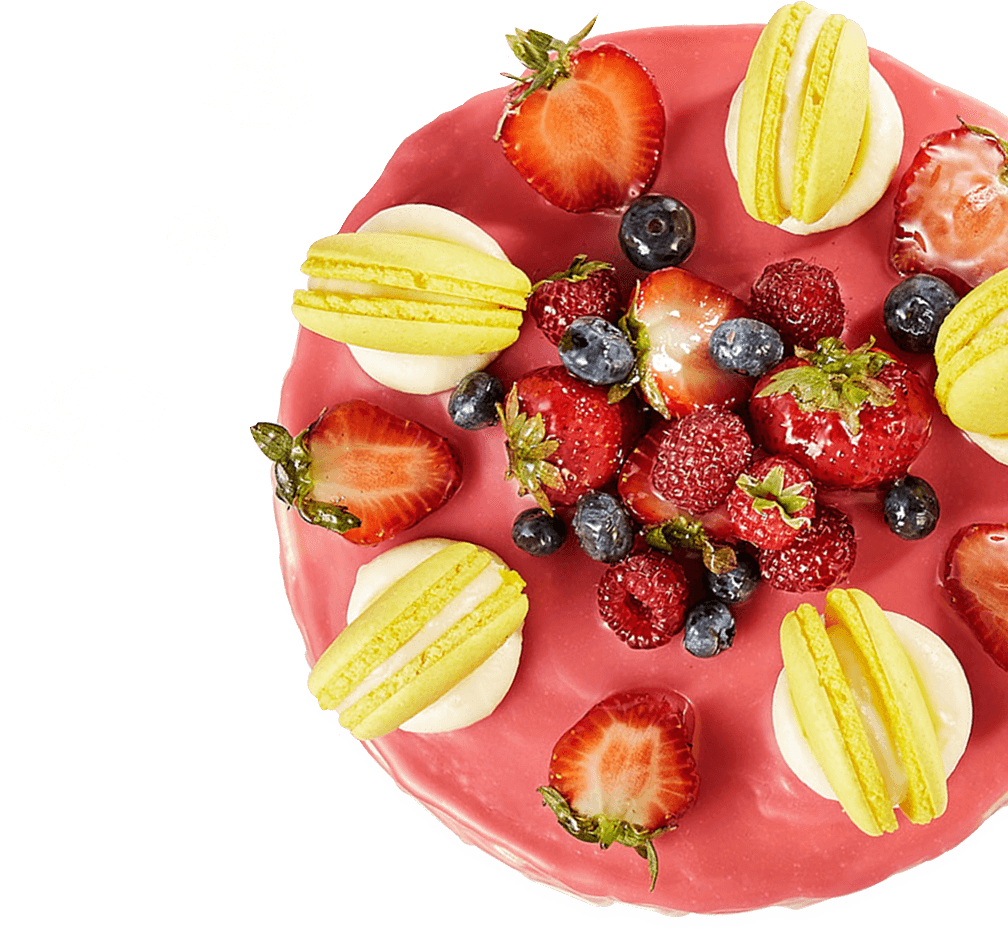
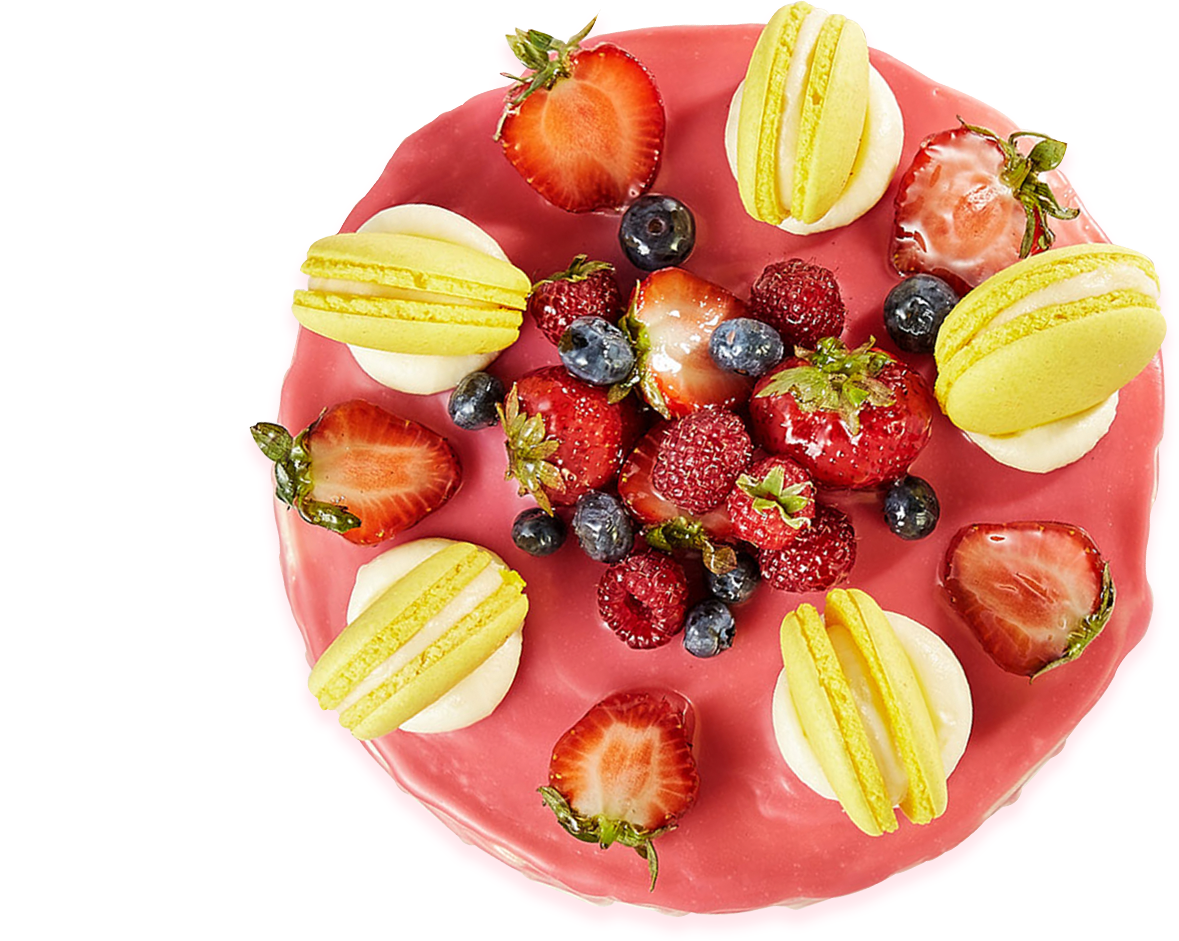
Корректирует сборку, обновляет фоновые изображения

diff --git a/cake/index.html b/cake/index.html
@@ -1,0 +1,1 @@
+<!DOCTYPE html><html lang="ru"><head><meta charset="UTF-8"><meta name="viewport" content="width=device-width,initial-scale=1"><meta http-equiv="X-UA-Compatible" content="ie=edge"><link rel="stylesheet" href="css/style.min.css"><link rel="preload" href="fonts/circe-bold.woff" as="font" crossorigin="anonymous"><link rel="preload" href="fonts/circe-regular.woff" as="font" crossorigin="anonymous"><link rel="preload" href="fonts/IntroScriptR-H2Base.otf" as="font" crossorigin="anonymous"><link rel="preload" href="fonts/opensans-light.woff2" as="font" crossorigin="anonymous"><link rel="preload" href="fonts/opensans-light.woff" as="font" crossorigin="anonymous"><link rel="preload" href="fonts/PlayfairDisplay-Bold.ttf" as="font" crossorigin="anonymous"><link rel="preload" href="fonts/PlayfairDisplay-BoldItalic.ttf" as="font" crossorigin="anonymous"><link rel="preload" href="fonts/roboto-regular.woff2" as="font" crossorigin="anonymous"><link rel="preload" href="fonts/roboto-regular.woff" as="font" crossorigin="anonymous"><script src="js/picturefill.min.js"></script><title>Торты на заказ</title></head><body><!-- HEADER --><header class="header"><div class="header__container container"><div class="header__inner"><span class="header__logo">Cakes</span> <button class="header__button"></button></div><nav class="header__navigation"><ul class="header__menu-list main-menu"><li class="main-menu__item"><a class="main-menu__link" href="#">Наши торты</a></li><li class="main-menu__item"><a class="main-menu__link main-menu__link--active" href="#">Индивидуальный заказ</a></li><li class="main-menu__item"><a class="main-menu__link" href="#">Отзывы</a></li><li class="main-menu__item"><a class="main-menu__link" href="#">О нас</a></li><li class="main-menu__item"><a class="main-menu__link" href="#">Как заказать</a></li><li class="main-menu__item"><a class="main-menu__link" href="#">Контакты</a></li></ul></nav><span class="header__tel tel">+7 906 899 92 96</span></div></header><!-- MAIN --><main class="main"><h1 class="visuallyhidden">Cakes - Торты на заказ!</h1><!-- SHOP-WINDOW --><section class="shop-window"><div class="shop-window__container container"><h2 class="shop-window__title">Торты на&nbsp;заказ</h2><p class="shop-window__slogan">Ручная работа</p><ul class="shop-window__features features"><li class="features__item features__item--naturally"><p class="features__description">Натуральные ингредиенты</p></li><li class="features__item features__item--delivery"><p class="features__description">Доставка бесплатно при&nbsp;заказе от&nbsp;2000&nbsp;рублей*</p></li></ul><a class="shop-window__button button" href="#">Выбрать торт</a><picture><source type="image/webp" media="(min-width: 1366px)" srcset="img/main-cake-d.webp, img/main-cake-d@2x.webp 2x"><source type="image/webp" media="(min-width: 768px)" srcset="img/main-cake-t.webp, img/main-cake-t@2x.webp 2x"><source type="image/webp" srcset="img/main-cake-mobile.webp, img/main-cake-mobile@2x.webp 2x"><source media="(min-width: 1366px)" srcset="img/main-cake-d.png, img/main-cake-d@2x.png 2x"><source media="(min-width: 768px)" srcset="img/main-cake-t.png, img/main-cake-t@2x.png 2x"><img class="shop-window__image" src="img/main-cake-mobile.png" srcset="img/main-cake-mobile@2x.png 2x" alt="Очень вкусный торт"></picture></div></section><!-- PRODUCTION --><section class="production"><div class="container"><h2 class="production__title">Наши торты</h2><div class="production__inner"><ul class="production__list"><li class="production__item production__item--big"><article class="production__grade product-grade"><h3 class="product-grade__title">Классические</h3><span class="product-grade__amount">24 вида</span> <a href="#"><picture><source type="image/webp" media="(min-width: 1366px)" srcset="img/classic-d.webp, img/classic-d@2x.jpg 2x"><source type="image/webp" media="(min-width: 768px)" srcset="img/classic-t.webp, img/classic-t@2x.jpg 2x"><source type="image/webp" srcset="img/classic-mobile.webp, img/classic-mobile@2x.webp 2x"><source media="(min-width: 1366px)" srcset="img/classic-d.jpg, img/classic-d@2x.jpg 2x"><source media="(min-width: 768px)" srcset="img/classic-t.jpg, img/classic-t@2x.jpg 2x"><img class="product-grade__img product-grade__img--classic" src="img/classic-mobile.jpg" srcset="img/classic-mobile@2x.jpg 2x" alt="Классический торт"></picture></a><a class="product-grade__link product-grade__link--visible" href="#">Смотреть</a></article></li><li class="production__item production__item--bot-indent"><article class="production__grade product-grade"><h3 class="product-grade__title">Муссовые</h3><span class="product-grade__amount">12 видов</span> <a href="#"><picture><source type="image/webp" media="(min-width: 1366px)" srcset="img/mousse-d.webp, img/mousse-d@2x.jpg 2x"><source type="image/webp" media="(min-width: 768px)" srcset="img/mousse-t.webp, img/mousse-t@2x.jpg 2x"><source type="image/webp" srcset="img/mousse-mobile.webp, img/mousse-mobile@2x.webp 2x"><source media="(min-width: 1366px)" srcset="img/mousse-d.jpg, img/mousse-d@2x.jpg 2x"><source media="(min-width: 768px)" srcset="img/mousse-t.jpg, img/mousse-t@2x.jpg 2x"><img class="product-grade__img product-grade__img--mousse" src="img/mousse-mobile.jpg" srcset="img/mousse-mobile@2x.jpg 2x" alt="Классический торт"></picture></a><a class="product-grade__link" href="#">Смотреть</a></article></li><li class="production__item"><article class="production__grade product-grade"><h3 class="product-grade__title">Свадебные</h3><span class="product-grade__amount">20 видов</span> <a href="#"><picture><source type="image/webp" media="(min-width: 1366px)" srcset="img/wedding-d.webp, img/wedding-d@2x.webp 2x"><source type="image/webp" media="(min-width: 768px)" srcset="img/wedding-t.webp, img/wedding-t@2x.webp 2x"><source type="image/webp" srcset="img/wedding-mobile.webp, img/wedding-mobile@2x.webp 2x"><source media="(min-width: 1366px)" srcset="img/wedding-d.jpg, img/wedding-d@2x.jpg 2x"><source media="(min-width: 768px)" srcset="img/wedding-t.jpg, img/wedding-t@2x.jpg 2x"><img class="product-grade__img product-grade__img--wedding" src="img/wedding-mobile.jpg" srcset="img/wedding-mobile@2x.jpg 2x" alt="Свадебный торт"></picture></a><a class="product-grade__link" href="#">Смотреть</a></article></li></ul></div><div class="production__inner"><ul class="production__list"><li class="production__item production__item--bot-indent"><article class="production__grade product-grade"><h3 class="product-grade__title">Мужчинам</h3><span class="product-grade__amount">12 видов</span> <a href="#"><picture><source type="image/webp" media="(min-width: 1366px)" srcset="img/mans-d.webp, img/mans-d@2x.webp 2x"><source type="image/webp" media="(min-width: 768px)" srcset="img/mans-t.webp, img/mans-t@2x.webp 2x"><source type="image/webp" srcset="img/mans-mobile.webp, img/mans-mobile@2x.webp 2x"><source media="(min-width: 1366px)" srcset="img/mans-d.jpg, img/mans-d@2x.jpg 2x"><source media="(min-width: 768px)" srcset="img/mans-t.jpg, img/mans-t@2x.jpg 2x"><img class="product-grade__img product-grade__img--mans" src="img/mans-mobile.jpg" srcset="img/mans-mobile@2x.jpg 2x" alt="Свадебный торт"></picture></a><a class="product-grade__link" href="#">Смотреть</a></article></li><li class="production__item"><article class="production__grade product-grade"><h3 class="product-grade__title">Женщинам</h3><span class="product-grade__amount">16 видов</span> <a href="#"><picture><source type="image/webp" media="(min-width: 1366px)" srcset="img/womans-d.webp, img/womans-d@2x.webp 2x"><source type="image/webp" media="(min-width: 768px)" srcset="img/womans-t.webp, img/womans-t@2x.webp 2x"><source type="image/webp" srcset="img/womans-mobile.webp, img/womans-mobile@2x.webp 2x"><source media="(min-width: 1366px)" srcset="img/womans-d.jpg, img/womans-d@2x.jpg 2x"><source media="(min-width: 768px)" srcset="img/womans-t.jpg, img/womans-t@2x.jpg 2x"><img class="product-grade__img product-grade__img--womans" src="img/womans-mobile.jpg" srcset="img/womans-mobile@2x.jpg 2x" alt="Свадебный торт"></picture></a><a class="product-grade__link" href="#">Смотреть</a></article></li><li class="production__item production__item--big"><article class="production__grade product-grade"><h3 class="product-grade__title">Детские</h3><span class="product-grade__amount">18 видов</span> <a href="#"><picture><source type="image/webp" media="(min-width: 1366px)" srcset="img/cids-d.webp, img/cids-d@2x.webp 2x"><source type="image/webp" media="(min-width: 768px)" srcset="img/cids-t.webp, img/cids-t@2x.webp 2x"><source type="image/webp" srcset="img/cids-mobile.webp, img/cids-mobile@2x.webp 2x"><source media="(min-width: 1366px)" srcset="img/cids-d.jpg, img/cids-d@2x.jpg 2x"><source media="(min-width: 768px)" srcset="img/cids-t.jpg, img/cids-t@2x.jpg 2x"><img class="product-grade__img product-grade__img--cids" src="img/cids-mobile.jpg" srcset="img/cids-mobile@2x.jpg 2x" alt="Свадебный торт"></picture></a><a class="product-grade__link" href="#">Смотреть</a></article></li></ul></div></div></section><!-- DESIGNER --><section class="designer"><div class="container"><h2 class="designer__title">Индивидуальный заказ</h2><p class="designer__description">Соберите торт в 3 шага</p><!-- FILLING --><div class="designer__filling filling"><h3 class="filling__caption">Выберите начинку</h3><button class="filling__control control filling__control--left" type="button">Назад</button><picture><source type="image/webp" media="(min-width: 1366px)" srcset="img/filling-d.webp, img/filling-d@2x.webp 2x"><source type="image/webp" media="(min-width: 768px)" srcset="img/filling-t.webp, img/filling-t@2x.webp 2x"><source type="image/webp" srcset="img/filling-mobile.webp, img/filling-mobile@2x.webp 2x"><source media="(min-width: 1366px)" srcset="img/filling-d.png, img/filling-d@2x.png 2x"><source media="(min-width: 768px)" srcset="img/filling-t.png, img/filling-t@2x.png 2x"><img class="filling__img" src="img/filling-mobile.png" srcset="img/filling-mobile@2x.png 2x" alt="Шоколадная начинка"></picture><!-- pagination --><ul class="filling__pagination pagination"><li class="pagination__item pagination__item--active"><a href="" class="pagination__link pagination__link"></a></li><li class="pagination__item"><a href="" class="pagination__link"></a></li><li class="pagination__item"><a href="" class="pagination__link"></a></li><li class="pagination__item"><a href="" class="pagination__link"></a></li><li class="pagination__item pagination__item--last"><a href="" class="pagination__link pagination__link"></a></li></ul><p class="filling__name">Шоколадный ганаш</p><p class="filling__description">Ароматный шоколадный бисквит, густой шоколадный крем – самый шоколадный из всех возможных десертов!</p><span class="filling__price">1000 руб/кг</span> <a class="filling__button button" href="#">Выбрать</a> <button class="filling__control control filling__control--right" type="button">Вперед</button> <span class="filling__counter">1/12</span></div><!-- SIZE --><div class="designer__size size"><h3 class="size__caption">Размер</h3><div class="size__wrap"><ul class="size__list"><li class="size__item size__item--first"><p class="size__weight"><a class="size__link" href="#">1&nbsp;кг</a></p><span class="size__radius">17-18&nbsp;см</span> <span class="size__amount">(1 кг – 6 персон)</span></li><li class="size__item size__item--second"><p class="size__weight"><a class="size__link" href="#">2&nbsp;кг</a></p><span class="size__radius">23-24&nbsp;см</span> <span class="size__amount">(10–12 персон)</span></li><li class="size__item size__item--third"><p class="size__weight"><a class="size__link" href="#">5&nbsp;кг</a></p><span class="size__radius">Два яруса 25 и 20 см</span> <span class="size__amount">(15–20 персон)</span></li><li class="size__item size__item--fourth"><p class="size__weight"><a class="size__link" href="#">8&nbsp;кг</a></p><span class="size__radius">Три яруса 30,25 и 18 см</span> <span class="size__amount">(25–30 персон)</span></li></ul><!-- pagination --><ul class="size__pagination pagination"><li class="pagination__item pagination__item--active"><a href="" class="pagination__link pagination__link"></a></li><li class="pagination__item"><a href="" class="pagination__link"></a></li><li class="pagination__item"><a href="" class="pagination__link"></a></li><li class="pagination__item"><a href="" class="pagination__link"></a></li></ul><a class="size__button button" href="#">Выбрать</a></div></div><!-- DECORATION --><div class="designer__decoration decoration"><h3 class="decoration__caption">Оформление</h3><div class="decoration__wrap"><button class="decoration__control control decoration__control--left" type="button">Назад</button><ul class="decoration__list"><li class="decoration__item"><div class="decoration__inner"><a class="decoration__link" href="#"><picture><source type="image/webp" media="(min-width: 1366px)" srcset="img/marshmallow-d.webp, img/marshmallow-d@2x.webp 2x"><source type="image/webp" media="(min-width: 768px)" srcset="img/marshmallow-t.webp, img/marshmallow-t@2x.webp 2x"><source type="image/webp" srcset="img/marshmallow-mobile.webp, img/marshmallow-mobile@2x.webp 2x"><source media="(min-width: 1366px)" srcset="img/marshmallow-d.png, img/marshmallow-d@2x.png 2x"><source media="(min-width: 768px)" srcset="img/marshmallow-t.png, img/marshmallow-t@2x.png 2x"><img class="decoration__image" src="img/marshmallow-mobile.jpg" srcset="img/marshmallow-mobile@2x.jpg 2x" alt="Маршмэллоу"></picture></a></div><span class="decoration__name">Маршмэллоу</span> <span class="decoration__price">600 руб/кг</span></li><li class="decoration__item"><div class="decoration__inner"><a class="decoration__link" href="#"><picture><source type="image/webp" media="(min-width: 1366px)" srcset="img/berries-d.webp, img/berries-d@2x.webp 2x"><source type="image/webp" srcset="img/berries-t.webp, img/berries-t@2x.webp 2x"><source media="(min-width: 1366px)" srcset="img/berries-d.png, img/berries-d@2x.png 2x"><img class="decoration__image" src="img/berries-t.png" srcset="img/berries-t@2x.png 2x" alt="Ягодное ассорти"></picture></a></div><span class="decoration__name">Ягодное ассорти</span> <span class="decoration__price">700 руб/кг</span></li></ul><button class="decoration__control control decoration__control--right" type="button">Вперед</button> <span class="decoration__counter">1/35</span> <button class="decoration__button button" type="button">Выбрать</button></div><!-- selection-result --><div class="designer__result selection-result"><h4 class="selection-result__caption">Ваш выбор</h4><!-- order-form --><form class="selection-result__form order-form" action="https://echo.htmlacademy.ru" method="post"><div class="order-form__inner"><label class="order-form__label" for="filling">Начинка</label> <input class="order-form__input" type="text" id="filling" placeholder="Шоколадный ганаш"></div><div class="order-form__inner"><label class="order-form__label" for="size">Размер</label> <input class="order-form__input" type="text" id="size" placeholder="1 кг"></div><div class="order-form__inner"><label class="order-form__label" for="decor">Оформление</label> <input class="order-form__input" type="text" id="decor" placeholder="Маршмэллоу"></div><button class="order-form__submit button" type="submit">заказать торт</button></form></div></div></div></section><!-- REVIEWS --><section class="reviews"><div class="reviews__container container"><h2 class="reviews__title">Отзывы</h2><button class="reviews__control control reviews__control--left" type="button">Назад</button><ul class="reviews__list"><li class="reviews__item"><article class="user-review"><h2 class="visuallyhidden">Отзывы пользователей</h2><picture><source type="image/webp" media="(min-width: 1366px)" srcset="img/user-d.webp, img/user-d@2x.webp 2x"><source type="image/webp" media="(min-width: 768px)" srcset="img/user-t.webp, img/user-t@2x.webp 2x"><source type="image/webp" srcset="img/user-mobile.webp, img/user-mobile@2x.webp 2x"><source media="(min-width: 1366px)" srcset="img/user-d.png, img/user-d@2x.png 2x"><source media="(min-width: 768px)" srcset="img/user-t.png, img/user-t@2x.png 2x"><img class="user-review__avatar" src="img/user-mobile.png" srcset="img/user-mobile@2x.png 2x" alt="Аватар пользователя"></picture><span class="user-review__name">Мария</span> <span class="user-review__data-user">юрист, 33 года</span><p class="user-review__excerpt">Заказывала торт брауни на юбилей мужа. Гости были в восторге! Отдельное спасибо за своевременную доставку! Теперь будем заказывать торты только у&nbsp;вас для наших семейных праздников:) <a class="user-review__link" href="#">Развернуть</a></p><span class="user-review__counter">1/26</span></article></li></ul><!-- pagination --><ul class="reviews__pagination pagination"><li class="pagination__item reviews__pagination-item reviews__pagination-item--active"><a href="" class="pagination__link"></a></li><li class="pagination__item reviews__pagination-item"><a href="" class="pagination__link"></a></li><li class="pagination__item reviews__pagination-item"><a href="" class="pagination__link"></a></li><li class="pagination__item reviews__pagination-item"><a href="" class="pagination__link"></a></li><li class="pagination__item reviews__pagination-item pagination__item--last"><a href="" class="pagination__link"></a></li></ul><button class="reviews__control control reviews__control--right" type="button">Вперед</button></div></section><!-- INFO-ABPUT --><section class="info-about"><div class="info-about__container container"><h2 class="info-about__title">О нас</h2><!-- confectioner --><div class="info-about__confectioner confectioner"><h3 class="confectioner__caption">О кондитере</h3><dl class="confectioner__list"><dt class="confectioner__termin">Кондитер — как призвание</dt><dd class="confectioner__description">Павел — профессиональный повар в различных гастрономических областях, но однажды его сердце покорило кондитерское искусство.<br>С ранних лет он увлекался унточенным мастерством и обратился к своим талантам как кондитер.</dd><dt class="confectioner__termin">Принцип – натуральные ингредиенты</dt><dd class="confectioner__description">Сегодня Павел радует изделиями не только близких, но и тех, кто предпочитает качественную продукцию для торжества, а главным принципом является выбор натуральных ингредиентов.</dd></dl></div><!-- social --><ul class="info-about__social social"><li class="info-about__social-item social__item"><a class="info-about__social-link social__link" href="#">Instagram</a></li><li class="info-about__social-item social__item"><a class="info-about__social-link social__link" href="#">VK</a></li><li class="info-about__social-item social__item"><a class="info-about__social-link social__link" href="#">Twitter</a></li></ul><picture class="info-about__picture"><source type="image/webp" media="(min-width: 1366px)" srcset="img/confectioner-d.webp, img/confectioner-d@2x.webp 2x"><source type="image/webp" media="(min-width: 768px)" srcset="img/confectioner-t.webp, img/confectioner-t@2x.webp 2x"><source type="image/webp" srcset="img/confectioner-mobile.webp, img/confectioner-mobile@2x.webp 2x"><source media="(min-width: 1366px)" srcset="img/confectioner-d.png, img/confectioner-d@2x.png 2x"><source media="(min-width: 768px)" srcset="img/confectioner-t.png, img/confectioner-t@2x.png 2x"><img class="info-about__image" src="img/confectioner-mobile.png" srcset="img/confectioner-mobile@2x.png 2x" alt="Кондитер - Павел"></picture><p class="info-about__quote">Я за простые рецепты. В Италии это называют cucina povera: когда обычные ингредиенты превращаются в божественное&nbsp;блюдо</p></div></section><!-- ADVANTAGES --><section class="advantages"><div class="container"><h2 class="advantages__title">Наши преимущества</h2><span class="advantages__subtitle">Почему нас выбирают?</span></div><div class="advantages__inner"><dl class="advantages__list"><dt class="advantages__termin">Без искусственных добавок</dt><dd class="advantages__description">Работаем с натуральными ингредиентами и свежими продуктами</dd><dt class="advantages__termin">Свежий торт в день торжества</dt><dd class="advantages__description">Торты изготавливаются в течение суток&nbsp;до&nbsp;отправки</dd></dl></div></section><!-- CARE --><section class="care"><div class="container"><h2 class="care__title">Забота о клиентах</h2><span class="care__subtitle">Для нас важно</span><p class="care__text">Нам важно чтобы каждый торт был безупречным, как внутри, так и снаружи, чтобы он был создан исключительно для вас и для вашего события</p></div></section><!-- ORDER --><section class="order"><div class="order__container container"><h2 class="order__title">Как заказать</h2><dl class="order__list"><dt class="order__termin">Срок заказа</dt><dd class="order__descripiont">Размещать заказы желательно за 2-3 дня. На выходные заказы лучше размещать минимум за неделю.</dd><dt class="order__termin">Доставка по городу</dt><dd class="order__descripiont">Доставка в пределах города 200 рубей, при&nbsp;заказе&nbsp;на&nbsp;сумму более 2000 доставка бесплатно</dd><dt class="order__termin">Доставка за городом</dt><dd class="order__descripiont">Доставка за пределами города рассчитывается индивидуально.</dd></dl></div></section><!-- CONTACTS --><section class="contacts"><div class="contacts__container container"><div class="contacts__form-wrap"><h2 class="contacts__title">Контакты</h2><span class="contacts__subtitle">Остались вопросы?</span><p class="contacts__description">Заполните форму ниже и наш кондитер свяжется с Вами</p><!-- form --><form class="contacts__form form" action="https://echo.htmlacademy.ru" method="post"><input class="form__input input" type="text" name="user-name" id="user-name" placeholder="Ваше имя"> <input class="form__input input" type="email" name="user-email" id="user-email" placeholder="Email адрес"> <textarea class="form__feedback input" name="feedback " id="user-feedback" cols="30" rows="10" placeholder="Ваш вопрос"></textarea> <button class="form__submit button" type="submit">Отправить</button></form></div><div class="contacts__wrap"><p class="contacts__tel">Или позвоните по телефону: <span class="tel">+7&nbsp;906&nbsp;899&nbsp;92&nbsp;96</span></p><p class="contacts__email">Наша почта : <span class="email">bakerybypavel@mail.ru</span></p><span class="contacts__text">Мы в соц. сетях:</span><ul class="contacts__social-list social"><li class="contacts__item social__item"><a class="contacts__link social__link" href="#">Instagram</a></li><li class="contacts__item social__item"><a class="contacts__link social__link" href="#">VK</a></li></ul></div></div></section><!-- FOOTER --><footer class="footer"><div class="footer__container container"><a class="footer__logo" href="#">Cakes</a><nav class="footer__navigation"><ul class="footer__menu-list"><li class="footer__item"><a class="footer__link" href="#">Наши торты</a></li><li class="footer__item"><a class="footer__link" href="#">Индивидуальный заказ</a></li><li class="footer__item"><a class="footer__link" href="#">Отзывы</a></li><li class="footer__item"><a class="footer__link" href="#">О нас</a></li><li class="footer__item"><a class="footer__link" href="#">Как заказать</a></li><li class="footer__item"><a class="footer__link" href="#">Контакты</a></li></ul></nav><span class="footer__tel tel">+7 906 899 92 96</span><ul class="footer__social social"><li class="footer__social-item"><a class="footer__social-link social__link" href="#">Instagram</a></li><li class="footer__social-item"><a class="footer__social-link social__link" href="#">VK</a></li></ul><div class="footer__band"></div><span class="footer__copyrighted">&copy; 2018 Cakes</span></div></footer></main><script src="js/menu-open.js"></script></body></html>

diff --git a/cake/gulpfile.js b/cake/gulpfile.js
@@ -14,6 +14,7 @@ var svgmin = require('gulp-svgmin');
 var minify = require('gulp-csso');
 var rename = require("gulp-rename");
 var imagemin = require('gulp-imagemin');
+var htmlmin = require('gulp-htmlmin');
 
 gulp.task("style", function() {
   gulp.src("source/less/style.less")
@@ -71,10 +72,10 @@ gulp.task('svg-optim', function () {
       .pipe(gulp.dest('source/svgo'));
 });
 
-gulp.task('minify', function() {
-  return gulp.src("build/*.html")
+gulp.task('htmlmin', function() {
+  return gulp.src("source/*.html")
     .pipe(htmlmin({collapseWhitespace: true}))
-    .pipe(gulp.dest("build"));
+    .pipe(gulp.dest("."));
 });
 
 gulp.task("images-min", function () {

diff --git a/cake/source/less/blocks/order/order.less b/cake/source/less/blocks/order/order.less
@@ -4,7 +4,7 @@
 
   color: rgb(255, 255, 255);
 
-  background: rgb(227, 57, 61) url("../../../img/bg-gift-mobile.png") no-repeat center bottom;
+  background: rgb(218, 37, 52) url("../../../img/bg-gift-mobile.png") no-repeat center bottom;
 
   counter-reset: order;
 }
@@ -68,7 +68,6 @@
     padding-bottom: 39px;
 
     background-image: url("../../../img/bg-gift-t.png");
-    background-position: left top;
   }
 
   .order__container {
@@ -115,6 +114,7 @@
     padding-bottom: 151px;
 
     background-image: url("../../../img/bg-gift-d.png");
+    background-position: center top;
   }
 
   .order__container {

diff --git a/cake/source/less/blocks/contacts/contacts.less b/cake/source/less/blocks/contacts/contacts.less
@@ -144,7 +144,7 @@
     font-size: 20px;
 
     background-image: url("../../../img/strawberry-bg-d.png");
-    background-position: 479px bottom;
+    background-position: 507px bottom;
   }
 
   .contacts__title {

diff --git a/cake/source/less/blocks/care/care.less b/cake/source/less/blocks/care/care.less
@@ -80,8 +80,8 @@
 
     &::before {
       content: url("../../../img/down-cake-d.png");
-      top: -335px;
-      right: 1px;
+      top: -332px;
+      right: -16px;
     }
   }
 

diff --git a/cake/source/less/blocks/shop-window/shop-window.less b/cake/source/less/blocks/shop-window/shop-window.less
@@ -124,6 +124,6 @@
 
   .shop-window__image {
     top: 3px;
-    right: 37%;
+    right: 30%;
   }
 }

diff --git a/cake/source/less/global.less b/cake/source/less/global.less
@@ -13,6 +13,7 @@ body {
 
   @media @desktop {
     width: 1366px;
+    overflow-x: hidden;
   }
 }
 
